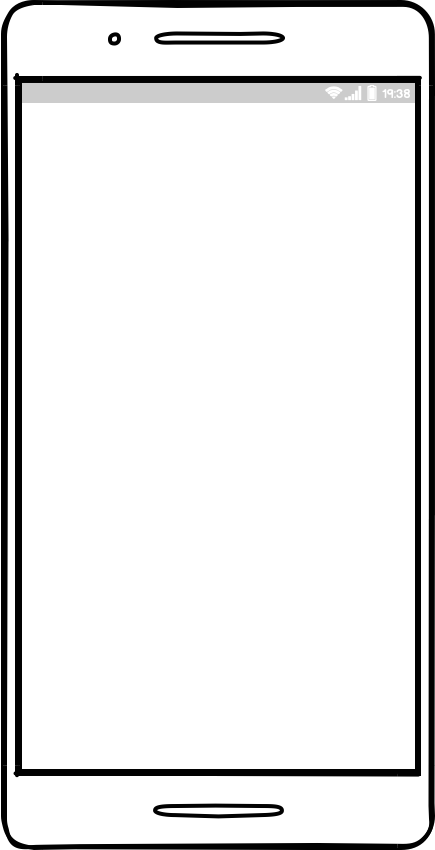
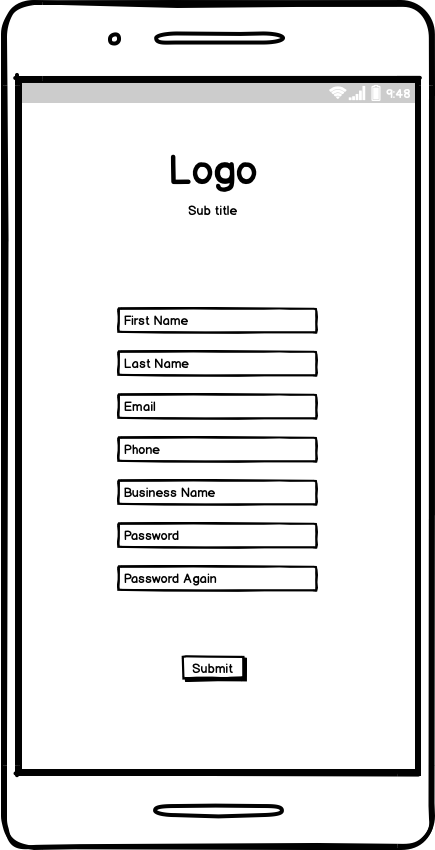
updated readme

diff --git a/README.md b/README.md
@@ -26,10 +26,24 @@ http://127.0.0.1:5000 which will only be viewable from your local machine.
 
 ### Development
 
-##### CI/CD Pipeline
+#### CI/CD Pipeline
 The pipeline constructed will push to a github test instance running Ubuntu latest, 
 run tests and if passed it will push up to EC2 for production installation.
 
 You will get an email notification once all production is complete and running 
 without errors.
 
+
+#### Wireframes
+![Login/First Screen](docs/wireframes/Login_first launch.png)
+![Signup Screen](docs/wireframes/Signup.png)
+![Main Screen](docs/wireframes/Main.png)
+![Add Screen](docs/wireframes/Add.png)
+![Delete Screen](docs/wireframes/Delete.png)
+![Notes Screen](docs/wireframes/Notes.png)
+![Admin Screen](docs/wireframes/Profile_Admin.png)
+
+
+#### Workflow
+
+Add flowchart here.
